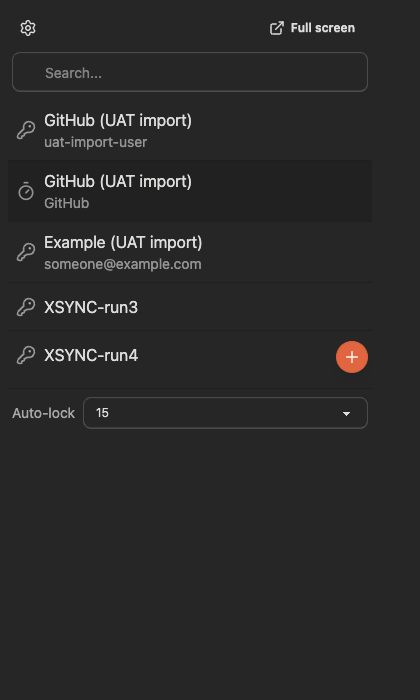
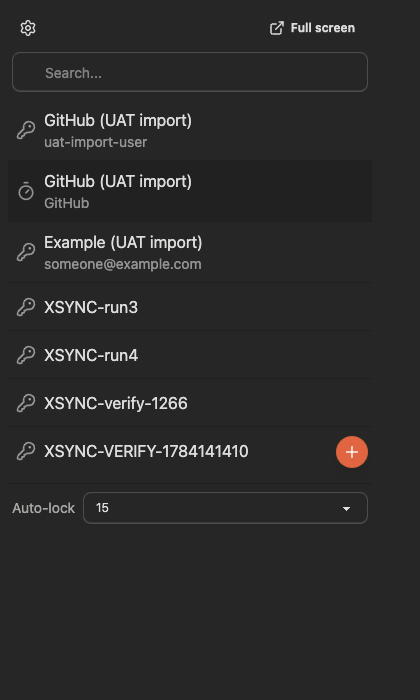
docs(09): phase 9 complete — seal roadmap/state/requirements, PROJECT.md transition
Re-verification passed 7/7 (d80a60d) after full gap closure. EXT-02..06
validated; refreshed cross-client sync screenshot from the independent
harness re-run.

diff --git a/.planning/ROADMAP.md b/.planning/ROADMAP.md
@@ -41,7 +41,7 @@ Delivered: 30/30 requirements, all phases verified passed, cross-phase integrati
 - **Session key storage**: the unlocked User Key must live only in `chrome.storage.session` — never `chrome.storage.local`, never a module-level JS variable. This constraint is established as the foundation in Phase 9 and must hold through every later phase that touches the unlocked key (autofill in Phase 10, the passkey provider in Phase 12).
 
 - [x] **Phase 8: Extension Bootstrap & WASM-in-Background Spike** - Bare WXT project on both browsers; `pv-wasm` runs in the background service worker and survives an idle-kill/wake cycle (completed 2026-07-15)
-- [ ] **Phase 9: Session Unlock Core, Popup & Sync Client** - Unlock the vault from the popup (password + PRF where supported), browse/search items, real REST+WS sync as a third synced client
+- [x] **Phase 9: Session Unlock Core, Popup & Sync Client** - Unlock the vault from the popup (password + PRF where supported), browse/search items, real REST+WS sync as a third synced client (completed 2026-07-15)
 - [ ] **Phase 10: Autofill — Login, TOTP, Card & Identity** - Detect forms and fill saved logins, live TOTP codes, cards, and identities into the current page
 - [ ] **Phase 11: Generate & Capture** - Suggest a generated password on signup, prompt to save new logins after submit, detect password changes
 - [ ] **Phase 12: Passkey Provider** - `navigator.credentials.create()`/`.get()` on third-party sites via a MAIN-world key-free RPC shim, `passkey-rs` + PRF, native fallback — security-review gated
@@ -105,11 +105,11 @@ Plans:
 
 **Wave 5** *(blocked on Wave 4 completion)*
 
-- [ ] 09-06-PLAN.md — Popup UI: server config, unlock (password + ext-PRF passkey), enrollment prompt, browse/search/pick, open full vault (EXT-02/03/04/06)
+- [x] 09-06-PLAN.md — Popup UI: server config, unlock (password + ext-PRF passkey), enrollment prompt, browse/search/pick, open full vault (EXT-02/03/04/06)
 
 **Wave 6** *(blocked on Wave 5 completion)*
 
-- [ ] 09-07-PLAN.md — Manual UAT checkpoint for all 7 success criteria
+- [x] 09-07-PLAN.md — Manual UAT checkpoint for all 7 success criteria
 
 **UI hint**: yes
 
@@ -215,7 +215,7 @@ Phases execute in numeric order: 1 → 2 → 3 → 4 → 5 → 6 → 7 → 8 →
 | 6. Import/Export, TOTP & Onboarding | v0.1 | 4/4 | Complete | 2026-07-14 |
 | 7. Self-Host Packaging & Deployment | v0.1 | 3/3 | Complete | 2026-07-14 |
 | 8. Extension Bootstrap & WASM-in-Background Spike | v0.2 | 3/3 | Complete    | 2026-07-15 |
-| 9. Session Unlock Core, Popup & Sync Client | v0.2 | 6/8 | In Progress|  |
+| 9. Session Unlock Core, Popup & Sync Client | v0.2 | 8/8 | Complete    | 2026-07-15 |
 | 10. Autofill — Login, TOTP, Card & Identity | v0.2 | 0/7 | Planned | - |
 | 11. Generate & Capture | v0.2 | 0/TBD | Not started | - |
 | 12. Passkey Provider | v0.2 | 0/TBD | Not started | - |

diff --git a/.planning/REQUIREMENTS.md b/.planning/REQUIREMENTS.md
@@ -13,7 +13,7 @@
 - [x] **EXT-02**: User unlocks the vault from the popup with the master password (and with a PRF passkey where the browser supports it); the unlocked User Key is held in `chrome.storage.session` (never `storage.local`) and survives service-worker idle-termination within the session
 - [x] **EXT-03**: The session key auto-locks — cleared after a configurable idle timeout and on browser close — so an unlocked vault never persists indefinitely
 - [x] **EXT-04**: In the popup the user can browse, search, and pick any vault item, backed by the existing `pv-server` REST API and WebSocket sync (multi-device revisions honored)
-- [ ] **EXT-05**: The extension is ONE public build (Chrome Web Store / AMO) that connects to the user's OWN self-hosted `pv-server` — on first run the user configures their server URL (stored in the extension), it is validated (reachable / `healthz`), and all REST + WebSocket traffic targets that URL; the self-hosted server allowlists the single fixed published extension origin via CORS. No server URL is hard-coded.
+- [x] **EXT-05**: The extension is ONE public build (Chrome Web Store / AMO) that connects to the user's OWN self-hosted `pv-server` — on first run the user configures their server URL (stored in the extension), it is validated (reachable / `healthz`), and all REST + WebSocket traffic targets that URL; the self-hosted server allowlists the single fixed published extension origin via CORS. No server URL is hard-coded.
 - [x] **EXT-06**: The popup (icon click) offers a "fullscreen / open full vault" action that opens the configured server's v0.1 web-app frontend in a new browser tab — so the popup stays a focused surface and the full vault-management UI is NOT re-implemented inside the extension
 
 ### PROV — Passkey provider
@@ -74,7 +74,7 @@ Filled by the roadmapper.
 | EXT-02 | Phase 9 | Complete |
 | EXT-03 | Phase 9 | Complete |
 | EXT-04 | Phase 9 | Complete |
-| EXT-05 | Phase 9 | Pending |
+| EXT-05 | Phase 9 | Complete |
 | EXT-06 | Phase 9 | Complete |
 | PROV-01 | Phase 12 | Pending |
 | PROV-02 | Phase 12 | Pending |

diff --git a/.planning/STATE.md b/.planning/STATE.md
@@ -2,19 +2,19 @@
 gsd_state_version: 1.0
 milestone: v0.2
 milestone_name: Browser Extension
-current_phase: 09
-current_phase_name: Session Unlock Core, Popup & Sync Client
-status: executing
+current_phase: 10
+current_phase_name: Autofill — Login, TOTP, Card & Identity
+status: planning
 stopped_at: Completed 09-06-PLAN.md
-last_updated: "2026-07-15T10:40:29.489Z"
+last_updated: "2026-07-15T18:55:58.769Z"
 last_activity: 2026-07-15
-last_activity_desc: 09-02-PLAN.md complete (session core, autolock, router)
+last_activity_desc: Phase 9 complete, transitioned to Phase 10
 progress:
   total_phases: 6
-  completed_phases: 1
+  completed_phases: 2
   total_plans: 31
-  completed_plans: 9
-  percent: 17
+  completed_plans: 11
+  percent: 33
 ---
 
 # Project State
@@ -28,10 +28,10 @@ See: .planning/PROJECT.md (updated 2026-07-14)
 
 ## Current Position
 
-Phase: 09 of 13 (Session Unlock Core, Popup & Sync Client)
-Plan: 7 of 7 complete (09-01, 09-03 Wave 1; 09-02 Wave 2) — next: Wave 3 (09-04, 09-05)
-Status: Ready to execute Wave 3
-Last activity: 2026-07-15 — 09-02-PLAN.md complete (session core, autolock, router)
+Phase: 10 of 13 (Autofill — Login, TOTP, Card & Identity)
+Plan: Not started
+Status: Ready to plan
+Last activity: 2026-07-15 — Phase 9 complete, transitioned to Phase 10
 
 Progress: [███░░░░░░░] 29%
 
@@ -39,7 +39,7 @@ Progress: [███░░░░░░░] 29%
 
 **Velocity:**
 
-- Total plans completed: 3 (all v0.1 — see milestones/v0.1-ROADMAP.md for per-phase breakdown)
+- Total plans completed: 11 (all v0.1 — see milestones/v0.1-ROADMAP.md for per-phase breakdown)
 - Average duration: - min
 - Total execution time: 0 hours (v0.2)
 
@@ -54,6 +54,7 @@ Progress: [███░░░░░░░] 29%
 | 12. Passkey Provider | TBD | - | - |
 | 13. Dual-Browser Hardening | TBD | - | - |
 | 8 | 3 | - | - |
+| 9 | 8 | - | - |
 
 *Updated after each plan completion*
 **Per-Plan Metrics:**

diff --git a/.planning/PROJECT.md b/.planning/PROJECT.md
@@ -46,6 +46,7 @@ Dla self-hosterów (społeczność Vaultwarden/homelab), którzy chcą passkeys 
 **✅ v0.1 MVP SHIPPED 2026-07-14** — 30/30 requirements, 7/7 faz zweryfikowanych, integracja cross-phase czysta (5/5 flows E2E). Audit: `.planning/milestones/v0.1-MILESTONE-AUDIT.md`.
 
 - ✓ Extension bootstrap (WXT): MV3 Chrome + MV2 Firefox z jednego builda, `pv-wasm` instancjonowany w background service workerze pod CSP `wasm-unsafe-eval`, round-trip krypto przeżywa realny idle-kill/wake (obserwowane w przeglądarce, nie inferowane — CDP kill + marker ground-truth), `build-wasm.sh` rozszerzony addytywnie (jedna ścieżka artefaktu krypto) — Phase 8 (EXT-01)
+- ✓ Extension session core + popup + sync: unlock hasłem i **extension-scoped PRF passkeyem** (RP ID = ext id, HKDF `pv:ext-prf-unlock:v1`, blob `prf_wrapped_uk` na serwerze — serwer bez zmian webauthn-rs), User Key wyłącznie w `chrome.storage.session` (przeżywa idle-kill, auto-lock przez `chrome.alarms` z konfigurowalnym timeoutem), popup browse/search/pick (React+DaisyUI, NordPass-layout), REST+WS sync jako trzeci klient (cross-client push udowodniony żywym drugim klientem), user-configured server URL z walidacją `/healthz` + „Zmień serwer" na unlocku, CORS allowlist na sztywny published extension origin (forged origin odrzucany), fullscreen/settings/new-item = czyste redirecty do web appa — Phase 9 (EXT-02..06), re-weryfikacja 7/7 po gap-closure (1 Critical + 8 Warnings naprawione, 689 linii martwego spike'a usunięte)
 
 ### Active
 
@@ -122,4 +123,4 @@ This document evolves at phase transitions and milestone boundaries.
 4. Update Context with current state
 
 ---
-*Last updated: 2026-07-15 after Phase 8*
+*Last updated: 2026-07-15 after Phase 9*
